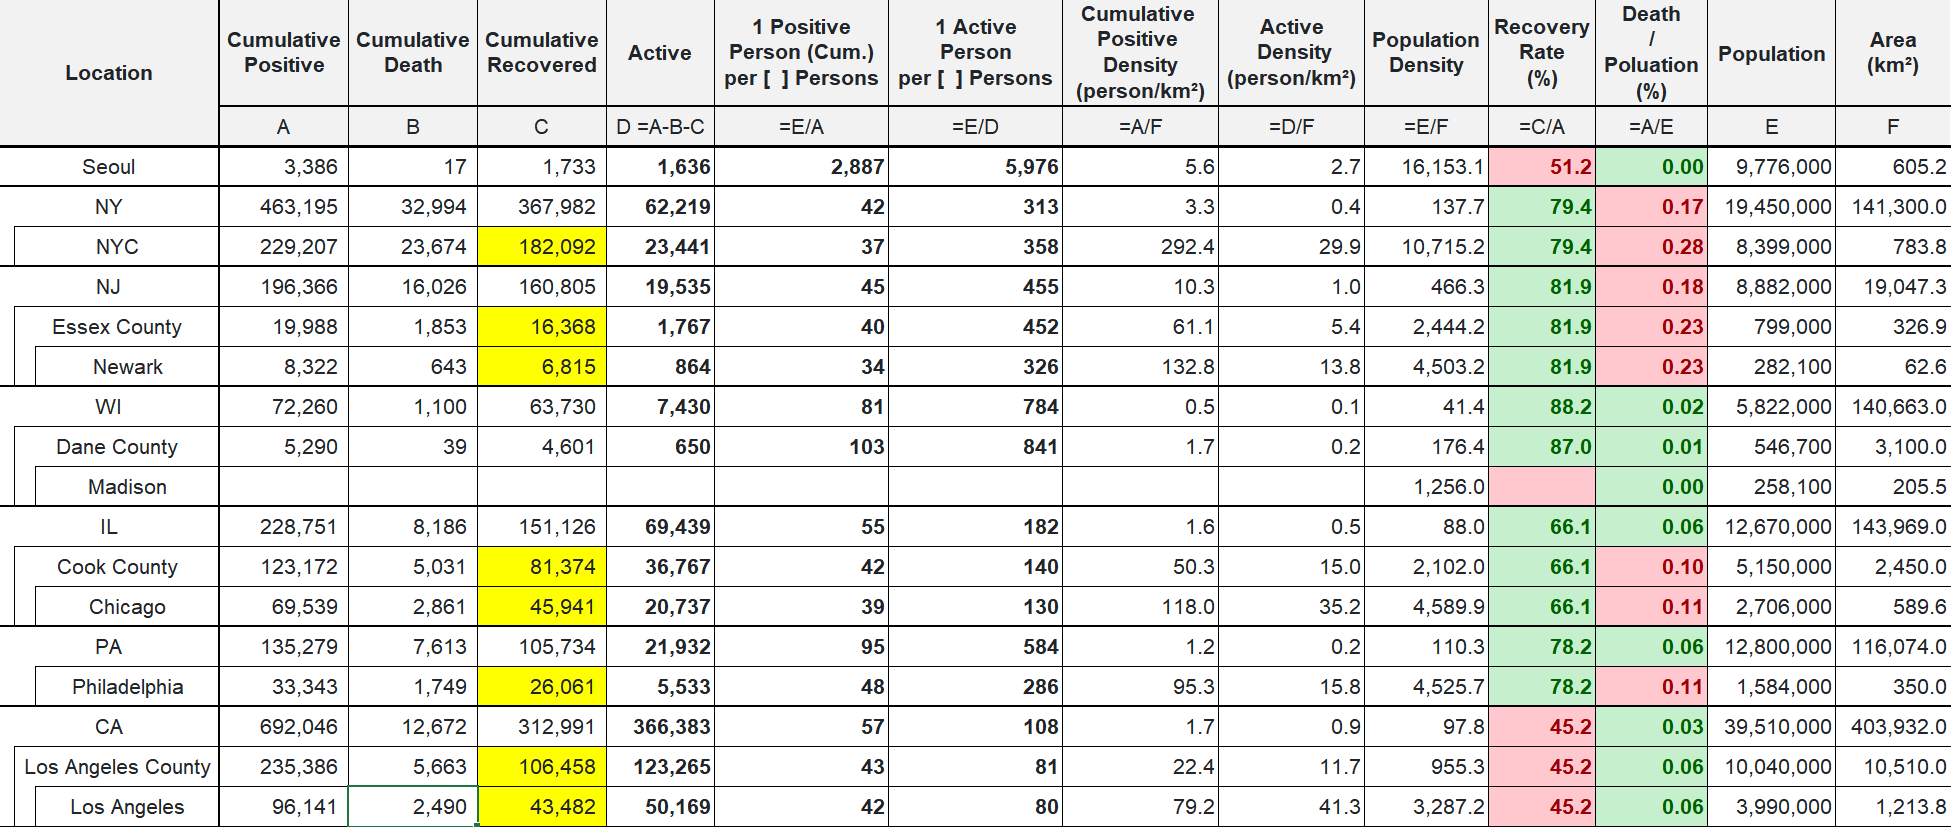
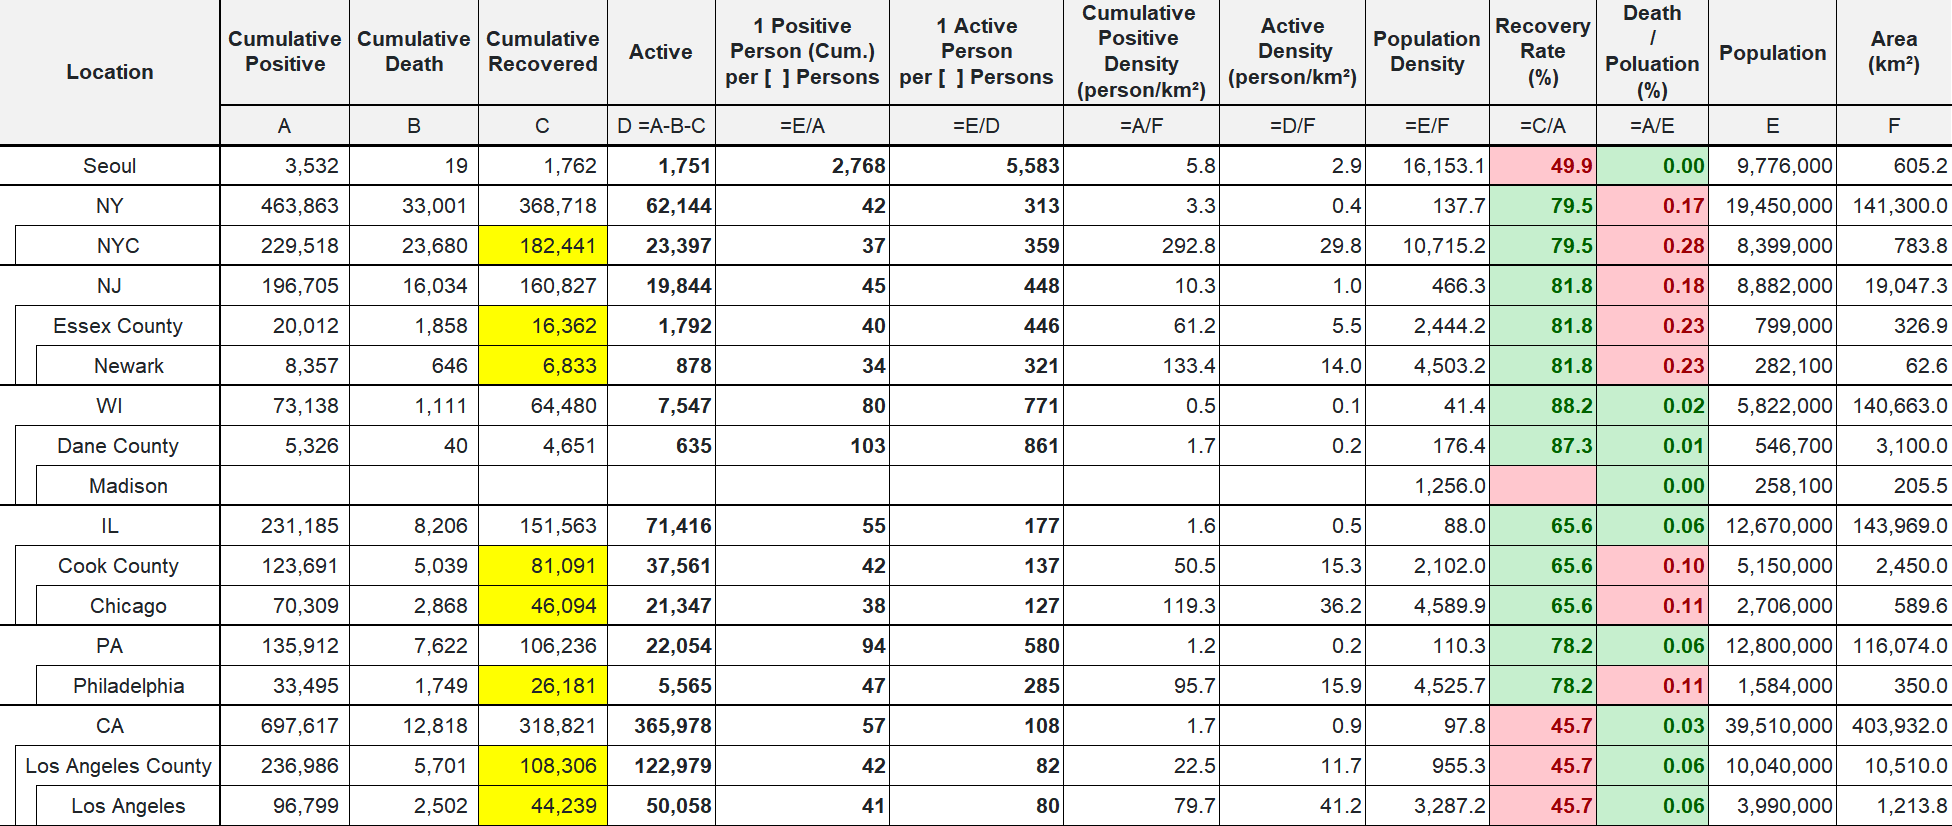
update 8/28 status

diff --git a/index.html b/index.html
@@ -19,7 +19,7 @@
 
 <body class="container-fluid">
 	<h1> CoronaV for Friends</h1>
-	<h2> Data updated at Aug 27 2020 EST 20:15</h2>
+	<h2> Data updated at Aug 28 2020 EST 20:40</h2>
 	<hr>
 	<main>
 		<div class="row">
